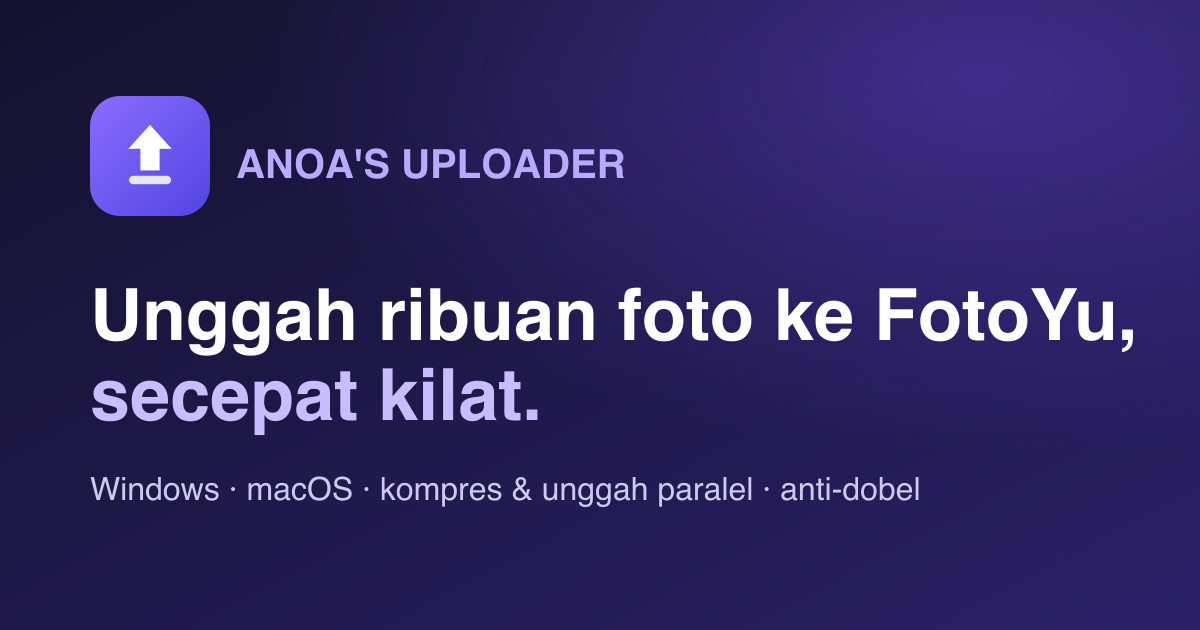
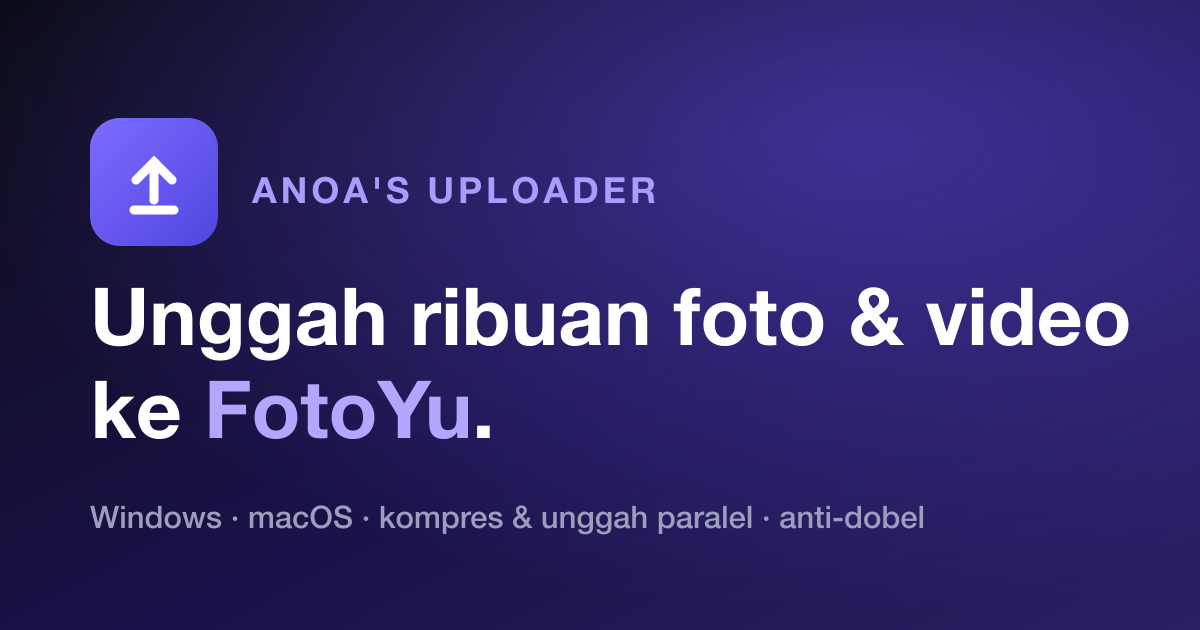
og-image: regenerate 'foto & video ke FotoYu' (hapus 'secepat kilat') + cache-bust v2

Changed region(s): [[0.0617, 0.1508, 0.9558, 0.6937], [0.0617, 0.754, 0.7708, 0.8444]]

diff --git a/index.html b/index.html
@@ -7,7 +7,7 @@
 <meta property="og:title" content="Anoa's Uploader — Unggah ribuan foto & video ke FotoYu">
 <meta property="og:description" content="Aplikasi unggah massal FotoYu untuk Windows & macOS. Kompres otomatis, tag FotoTree, anti-dobel.">
 <meta property="og:url" content="https://anoasportograph-ui.github.io/">
-<meta property="og:image" content="https://anoasportograph-ui.github.io/og-image.png">
+<meta property="og:image" content="https://anoasportograph-ui.github.io/og-image.png?v=2">
 <meta name="twitter:card" content="summary_large_image">
 <title>Anoa's Uploader — Unggah ribuan foto & video ke FotoYu</title>
 <meta name="description" content="Aplikasi unggah massal FotoYu untuk PC & HP. Kompres otomatis, tag FotoTree, anti-dobel." />
